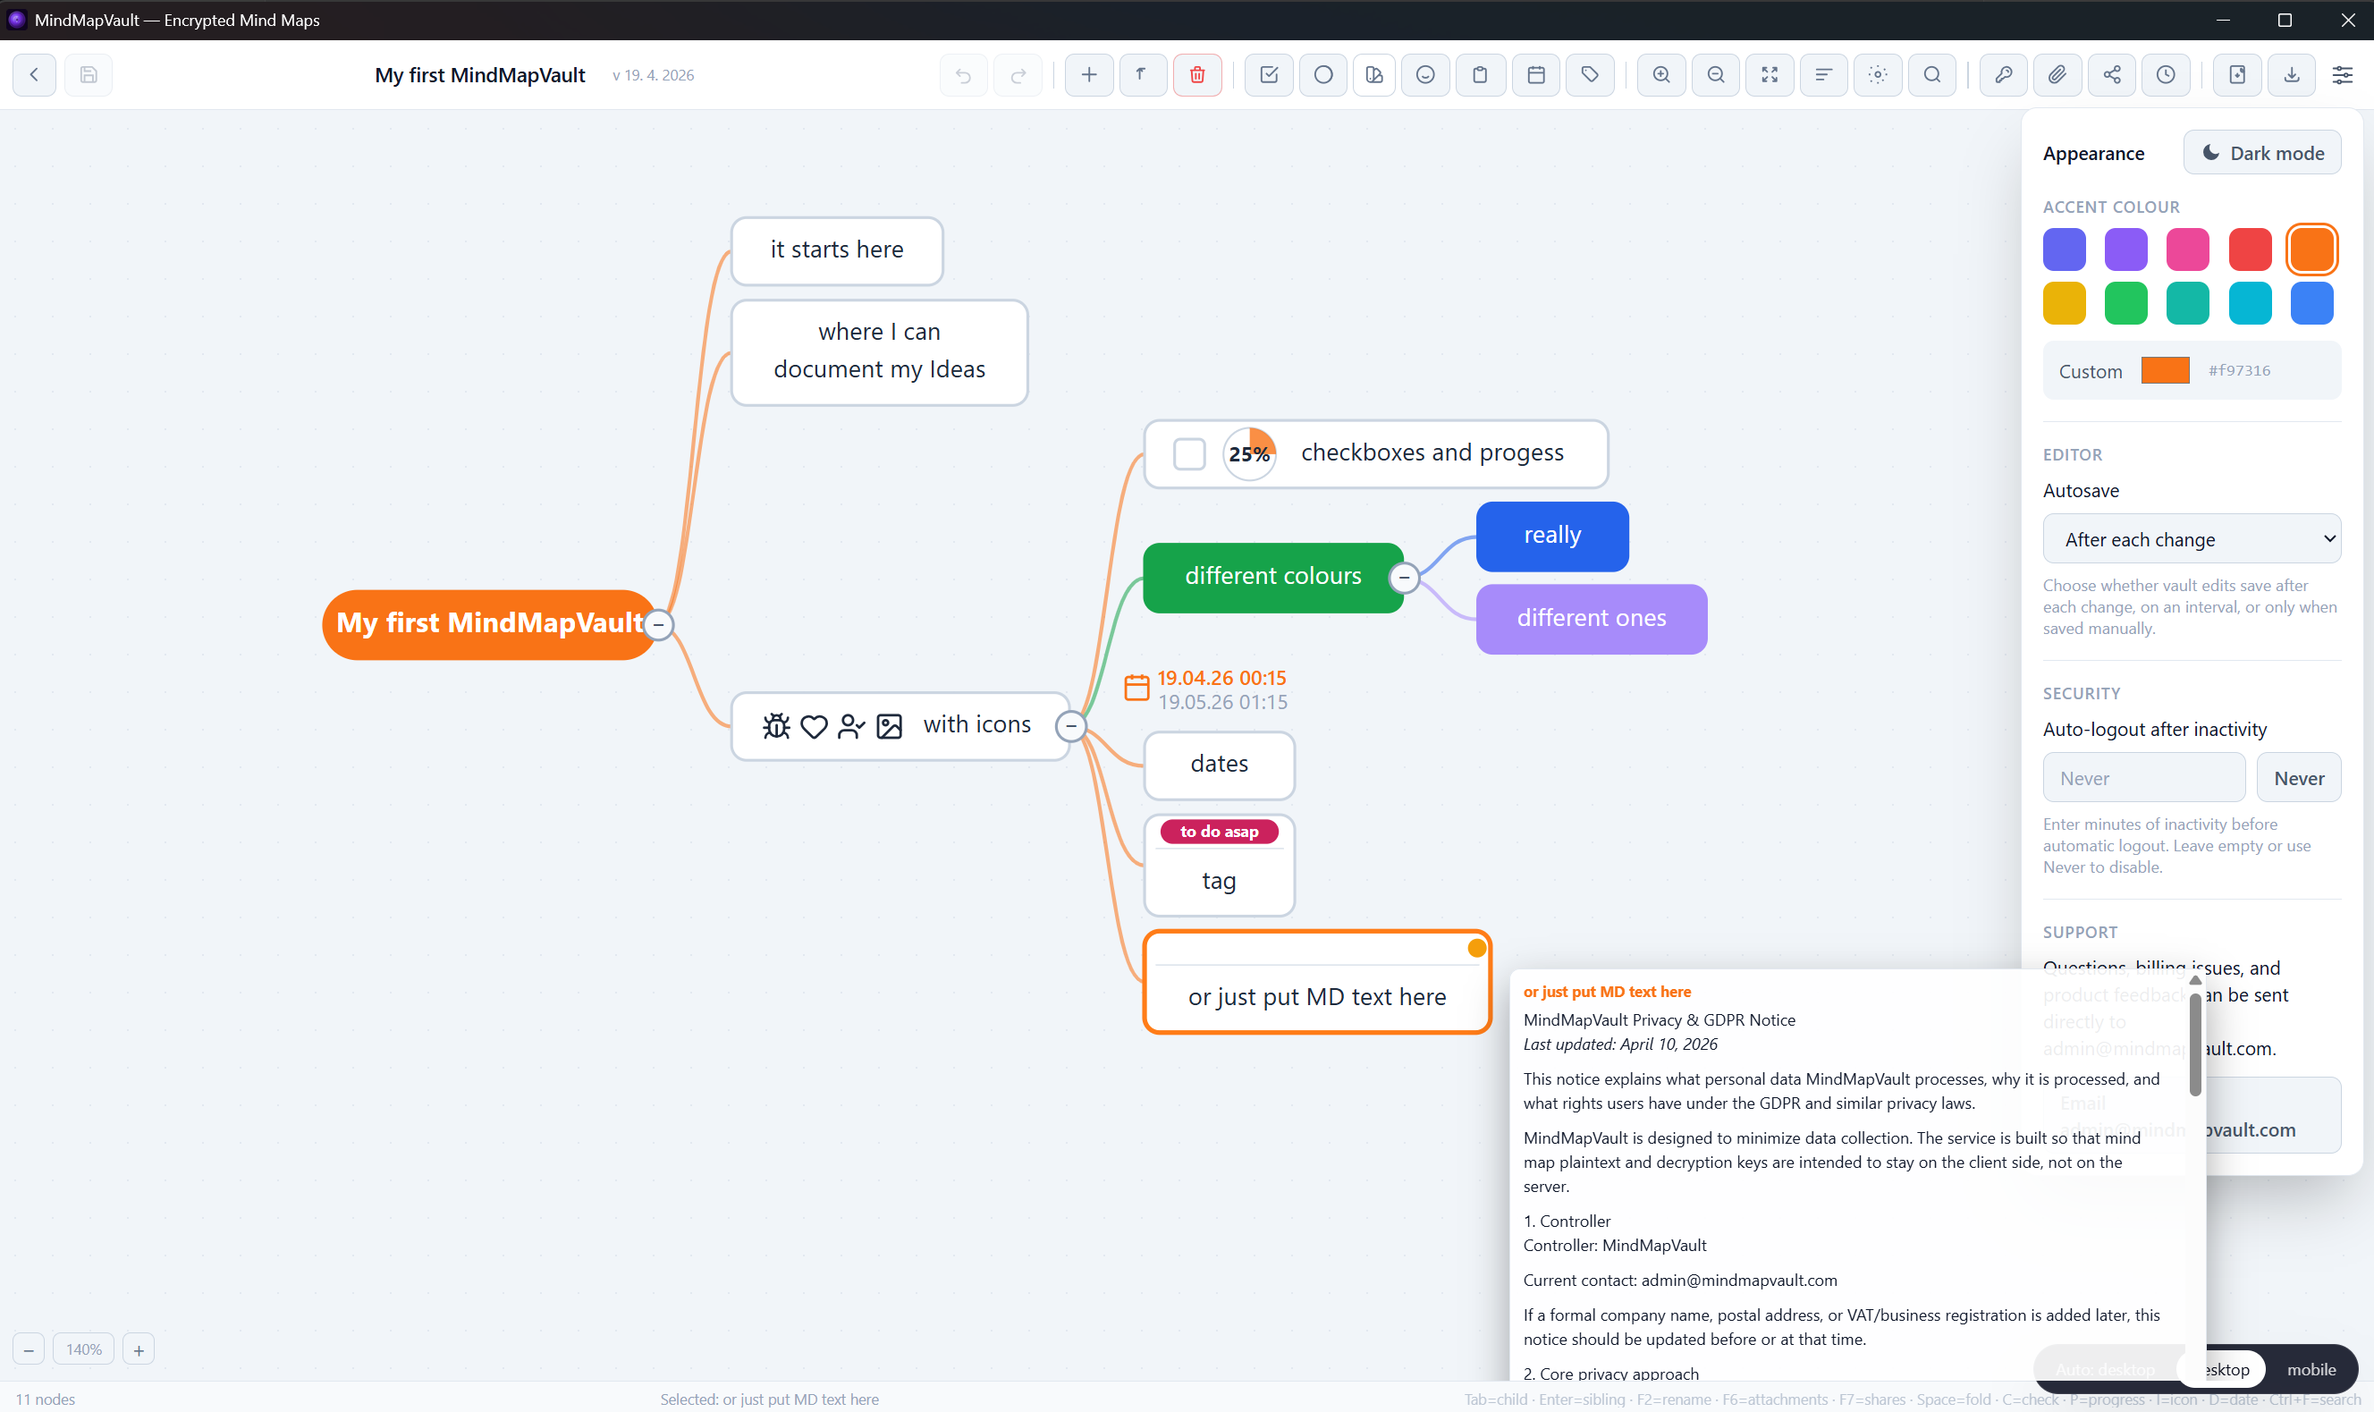
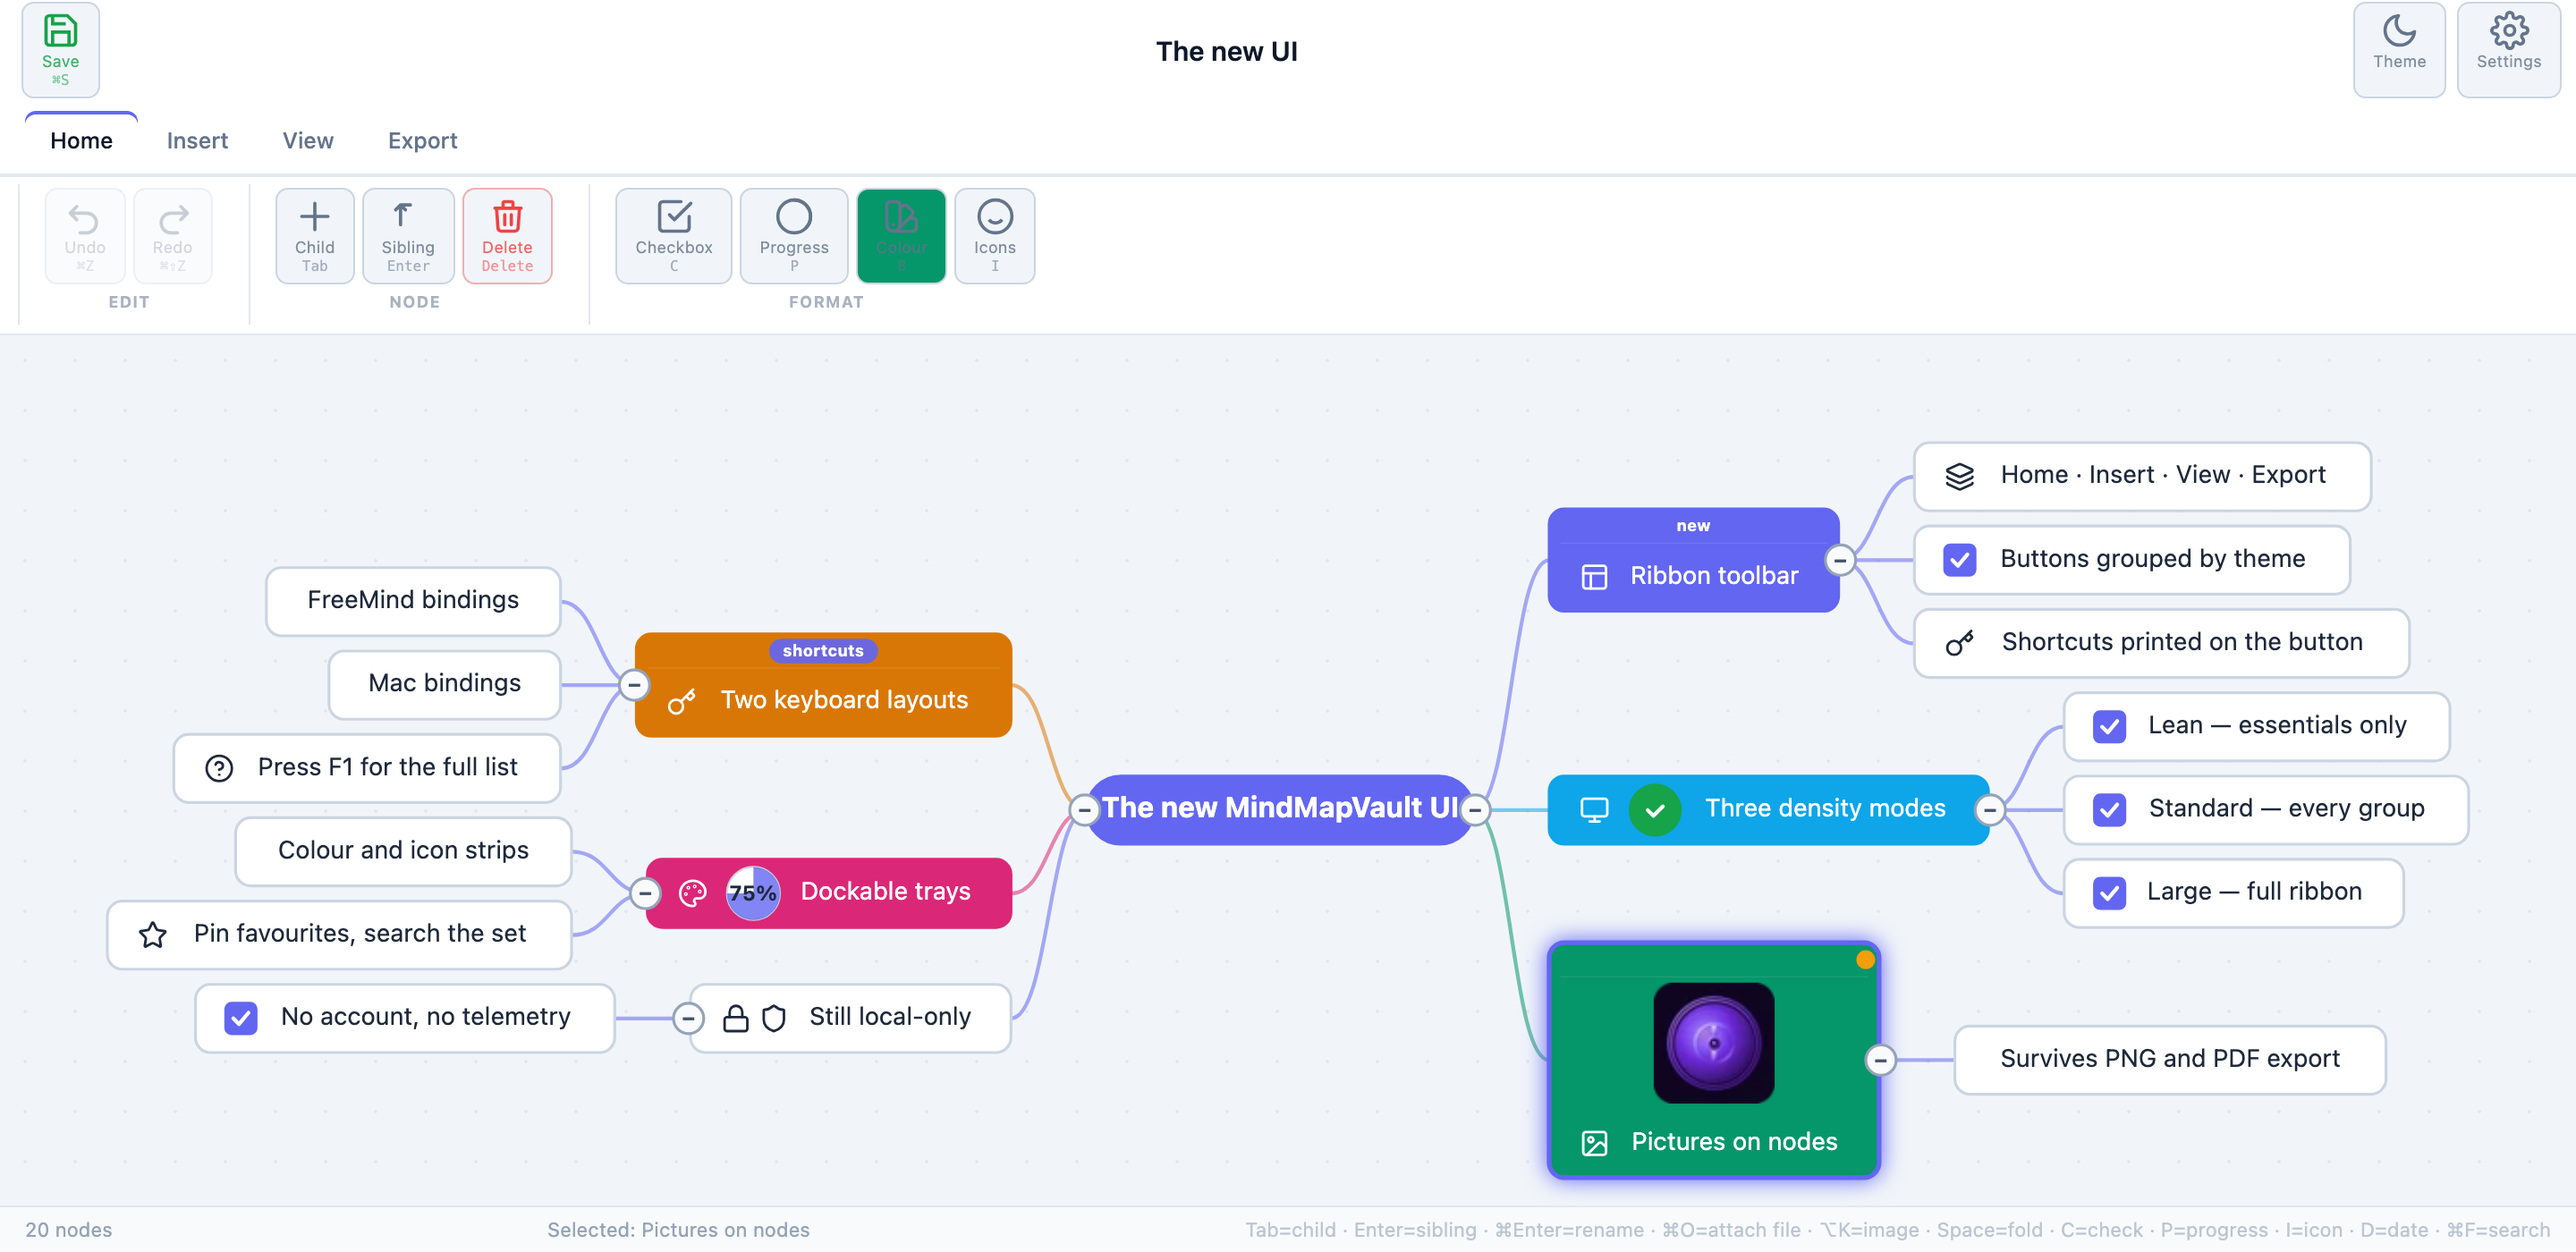
docs: new UI screenshot and shortcut table corrections
The hero shot is Large density in light mode with a picture on a node,
captured from the real editor. Adds the zoom, fit-to-window and back
bindings the table was missing since 0.3.35.

diff --git a/README.md b/README.md
@@ -10,6 +10,12 @@ All core functionality works offline, all data stays on the device, and the repo
 
 [![MindMapVault product preview](docs/assets/hero-preview.png)](https://www.mindmapvault.com/)
 
+Large density in light mode, with a picture on a node.
+
+The toolbar comes in three densities: Lean keeps only the essentials behind a
+"More actions" menu, Standard shows every group, and Large adds the tab bar
+above. Pick one in Settings → Interface, along with toolbar labels, the
+shortcut hints printed on each button, and the dockable colour and icon trays.
 
 ## Demo
 
@@ -245,8 +251,9 @@ same table, grouped and always in sync with what will actually fire.
 | **View** | | |
 | Go to root | Home | H |
 | Focus mode | F5 / F | ⌘⇧F |
-| Zoom in | + | + |
-| Zoom out | - | - |
+| Zoom in | + / Alt+↓ | ⌘+ |
+| Zoom out | - / Alt+↑ | ⌘− |
+| Fit to window | F8 | ⌘⇧8 |
 | Toggle colour tray | Ctrl+Shift+1 | ⌘⇧1 |
 | Toggle icon tray | Ctrl+Shift+2 | ⌘⇧2 |
 | **Edit** | | |
@@ -257,6 +264,7 @@ same table, grouped and always in sync with what will actually fire.
 | Shortcuts (this table) | F1 | ⌘/ |
 | **File** | | |
 | Save | Ctrl+S | ⌘S |
+| Back to vault list | Alt+← | ⌘[ |
 
 Source of truth: `frontend_app/src/shortcuts/registry.ts` — each layout is
 an exhaustive, closed set (nothing falls back to the other layout's keys).
